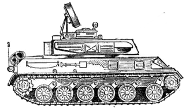
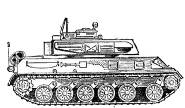
radar moves

Changed region(s): [[0.3243, 0.0278, 0.4595, 0.2778], [0.8649, 0.1111, 0.8919, 0.1389]]

diff --git a/shilka2/MainWindow.xaml b/shilka2/MainWindow.xaml
@@ -12,6 +12,7 @@
                 <Image Source="images/background.png" Width="{Binding Path=ActualWidth, ElementName=gridFirePlace}" Height="{Binding Path=ActualHeight, ElementName=gridFirePlace}" Stretch="Fill" Canvas.Top="52"/>
             </Canvas>
             <Button x:Name="closeButton" Content="✖" HorizontalAlignment="Left" Height="23" Margin="10,15,0,0" VerticalAlignment="Top" Width="30" Click="closeButton_Click"/>
+            <Image x:Name="RadarImg" Source="images/radar.png" HorizontalAlignment="Left" Height="33" Margin="47,173,0,0" VerticalAlignment="Top" Width="25"/>
             <Image x:Name="ShilkaImg" HorizontalAlignment="Left" Height="111" Margin="237,10,0,0" VerticalAlignment="Top" Width="185" Source="images/shilka.png"/>
             <Image x:Name="HandImg" HorizontalAlignment="Left" Height="231" Margin="237,155,-176,-249" VerticalAlignment="Top" Width="520" Source="images/hand.png"/>
             <Label x:Name="statShells" HorizontalAlignment="Left" Height="183" Margin="45,10,0,0" VerticalAlignment="Top" Width="450"/>

diff --git a/shilka2/MainWindow.xaml.cs b/shilka2/MainWindow.xaml.cs
@@ -57,6 +57,7 @@ namespace shilka2
             StartMenu.Background = (Brush)converter.ConvertFrom("#FF343333");
 
             ShilkaImg.Margin = new Thickness(0, heightForShilka, 0, 0);
+            RadarImg.Margin = new Thickness(62, heightForShilka, 0, 0);
             HandImg.Margin = new Thickness(65, (heightForShilka - 120), 0, 0);
         }
 
@@ -201,7 +202,15 @@ namespace shilka2
 
         private void Window_MouseMove(object sender, MouseEventArgs e)
         {
-            if (Shell.Fire) Shilka.SetNewTergetPoint(e.GetPosition((Window)sender), sender);
+            if (Shell.Fire)
+            {
+                Shilka.SetNewTergetPoint(e.GetPosition((Window)sender), sender);
+
+                double degree = Math.Asin(Shell.LastSin)  * (180 / Math.PI) * -1;
+                RotateTransform rotate = new RotateTransform(degree, 4, 20);
+                RadarImg.RenderTransform = rotate;
+            }
+
         }
 
         private void closeButton_Click(object sender, RoutedEventArgs e)
